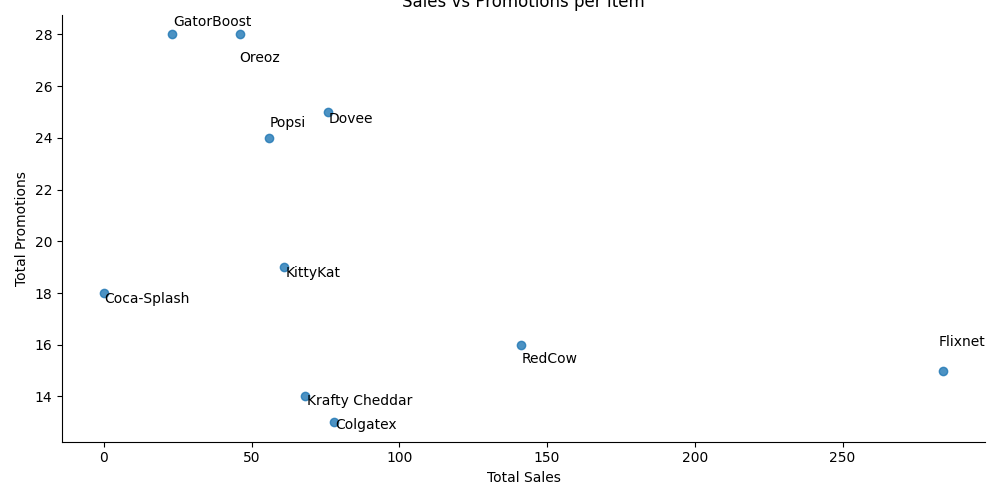
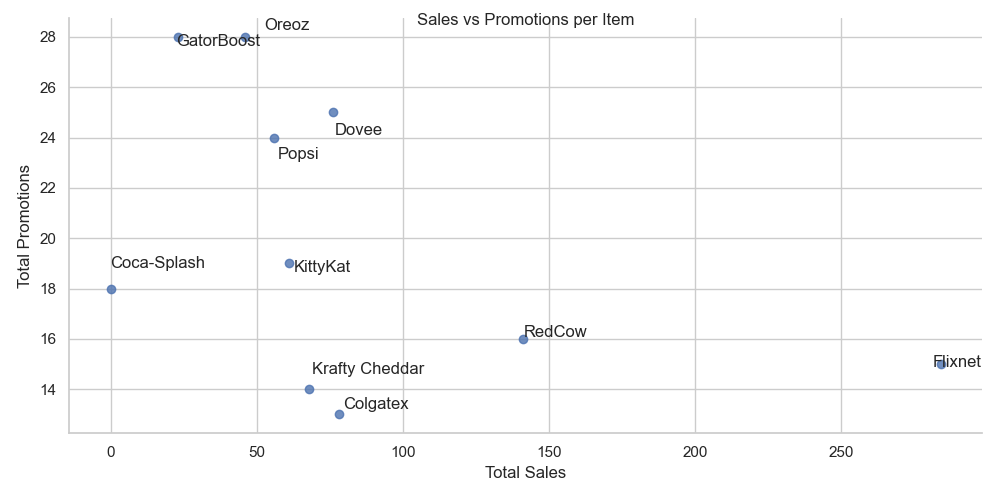
feat: adding new files and polar radial graph

diff --git a/data_viz.py b/data_viz.py
@@ -38,6 +38,36 @@ plt.grid(axis='y', linestyle='--', alpha=0.6)
 plt.tight_layout() 
 plt.savefig('figures/Country_Distribution.png', dpi=300)
 
+### CREATING VISUALIZATION FOR USER DISTRIBUTION BY City
+city = people_data['city'].value_counts().reset_index()
+city.columns = ['City', 'Count']
+city = city.sort_values(by='Count', ascending=False) 
+plt.figure(figsize=(20,10))
+ax = plt.subplot(111, polar=True)
+plt.axis('off')
+upperLimit = 100
+lowerLimit = 30
+max_value = city['Count'].max()
+slope = (max_value - lowerLimit) / max_value
+heights = slope * city['Count'] + lowerLimit
+width = 2 * np.pi / len(city.index)
+indexes = list(range(1, len(city.index) + 1))
+angles = [element * width for element in indexes]
+bars = ax.bar(x=angles, height=heights, width=width, bottom=lowerLimit, linewidth=2, edgecolor="white", color=plt.cm.tab20.colors)
+labelPadding = 4
+for bar, angle, height, label in zip(bars, angles, heights, city["City"]):
+    rotation = np.rad2deg(angle)
+    alignment = "right" if angle >= np.pi / 2 and angle < 3 * np.pi / 2 else "left"
+    if alignment == "right":
+        rotation = rotation + 180
+    ax.text(x=angle, 
+            y=lowerLimit + bar.get_height() + labelPadding, 
+            s=label, 
+            ha=alignment, 
+            va='center', 
+            rotation=rotation, 
+            rotation_mode="anchor")
+plt.savefig('figures/City_Distribution.png')
 
 ### CREATING VISUALIZATION FOR RESPONSES TO PROMOTIONS
 responses = promo_data['responded'].value_counts().reset_index()
@@ -79,7 +109,7 @@ plt.figure(figsize=(12, 6))  # Create new figure
 sns.barplot(x='city', y='count', hue='city', data=sender_cities)
 plt.title('Transfer Sales by City')
 plt.xlabel('City')
-plt.ylabel('Total Transfer Sales')
+plt.ylabel('Total Amount of Transfers')
 plt.savefig('figures/TransferSalesCity.png')  # Save figure
 
 sender_cities = transfer_data.merge(people_data[['id','country','city']], left_on='sender_id',right_on='id', how='inner')
@@ -115,7 +145,7 @@ ax = sns.lmplot(x='Total Sales',
                 data=item_sales_promo,
                 fit_reg=False, 
                 aspect=2)
-plt.title('Sales vs Promotions per Item')
+plt.title('Sales vs Promotions per Item', pad=-5)
 plt.xlabel('Total Sales')
 plt.ylabel('Total Promotions')
 def label_point(x, y, val, ax):
@@ -129,7 +159,7 @@ def label_point(x, y, val, ax):
     # Adjust labels to prevent overlapping
     adjust_text(texts, ax=plt.gca(), expand_points=(1.2, 1.5))
 label_point(item_sales_promo['Total Sales'], item_sales_promo['Total Promotions'], item_sales_promo['Item'], plt.gca())
-
+plt.savefig('figures/SalesPromoItem.png')
 ###CREATING VISUALIZATION FOR TRANSFER INTERNATIONAL VS DOMESTIC
 send_id_location = transfer_data.merge(people_data[['id','country','city']], left_on='sender_id',right_on='id', how='inner')
 send_id_location.rename(columns={'country':'sender_country','city':'sender_city'},inplace=True)
@@ -157,4 +187,5 @@ plt.title('Promotions vs Actual Purchase')
 plt.xlabel('Bought What Was Promoted')
 plt.ylabel('Count')
 plt.savefig('figures/PromotionBought.png')  # Save figure
+
 

diff --git a/data_cleanup.py b/data_cleanup.py
@@ -68,6 +68,7 @@ promo_csv = data_parser("data/promotions.csv") #promotions.csv
 
 transaction = data_parser("data/transactions.xml") #transactions.xml
 cleanup_items_xml('data/transactions.xml')
+transaction.to_csv("data/transactions.csv", index=False)
 
 transfer = data_parser("data/transfers.csv") #transfers.csv
 
